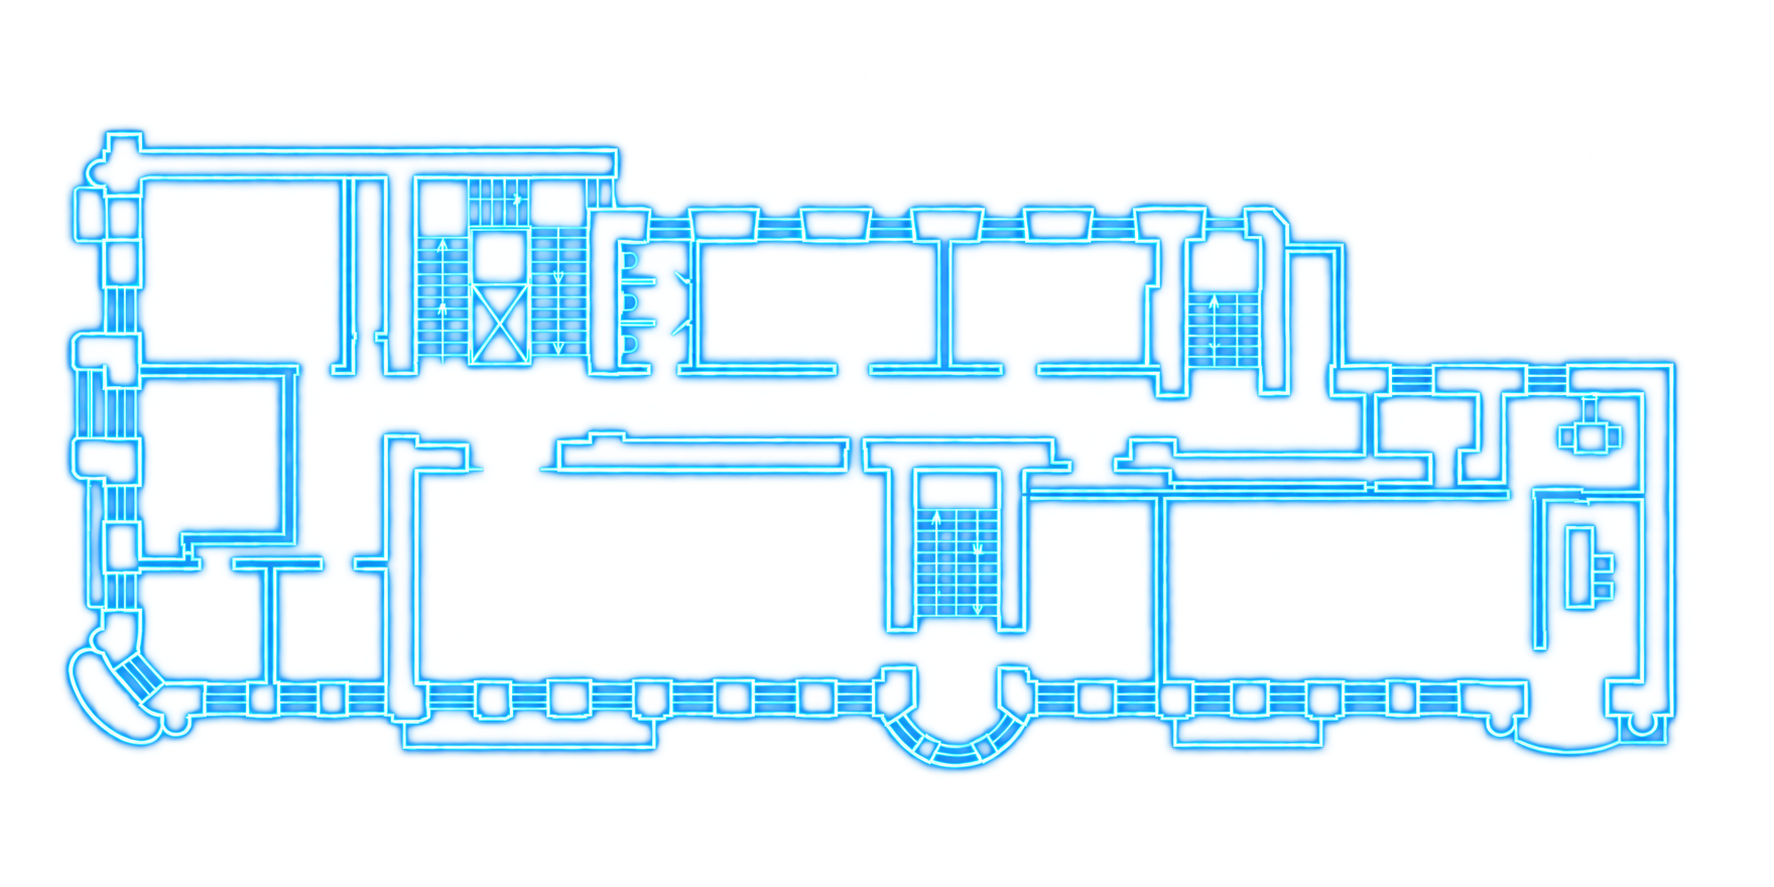
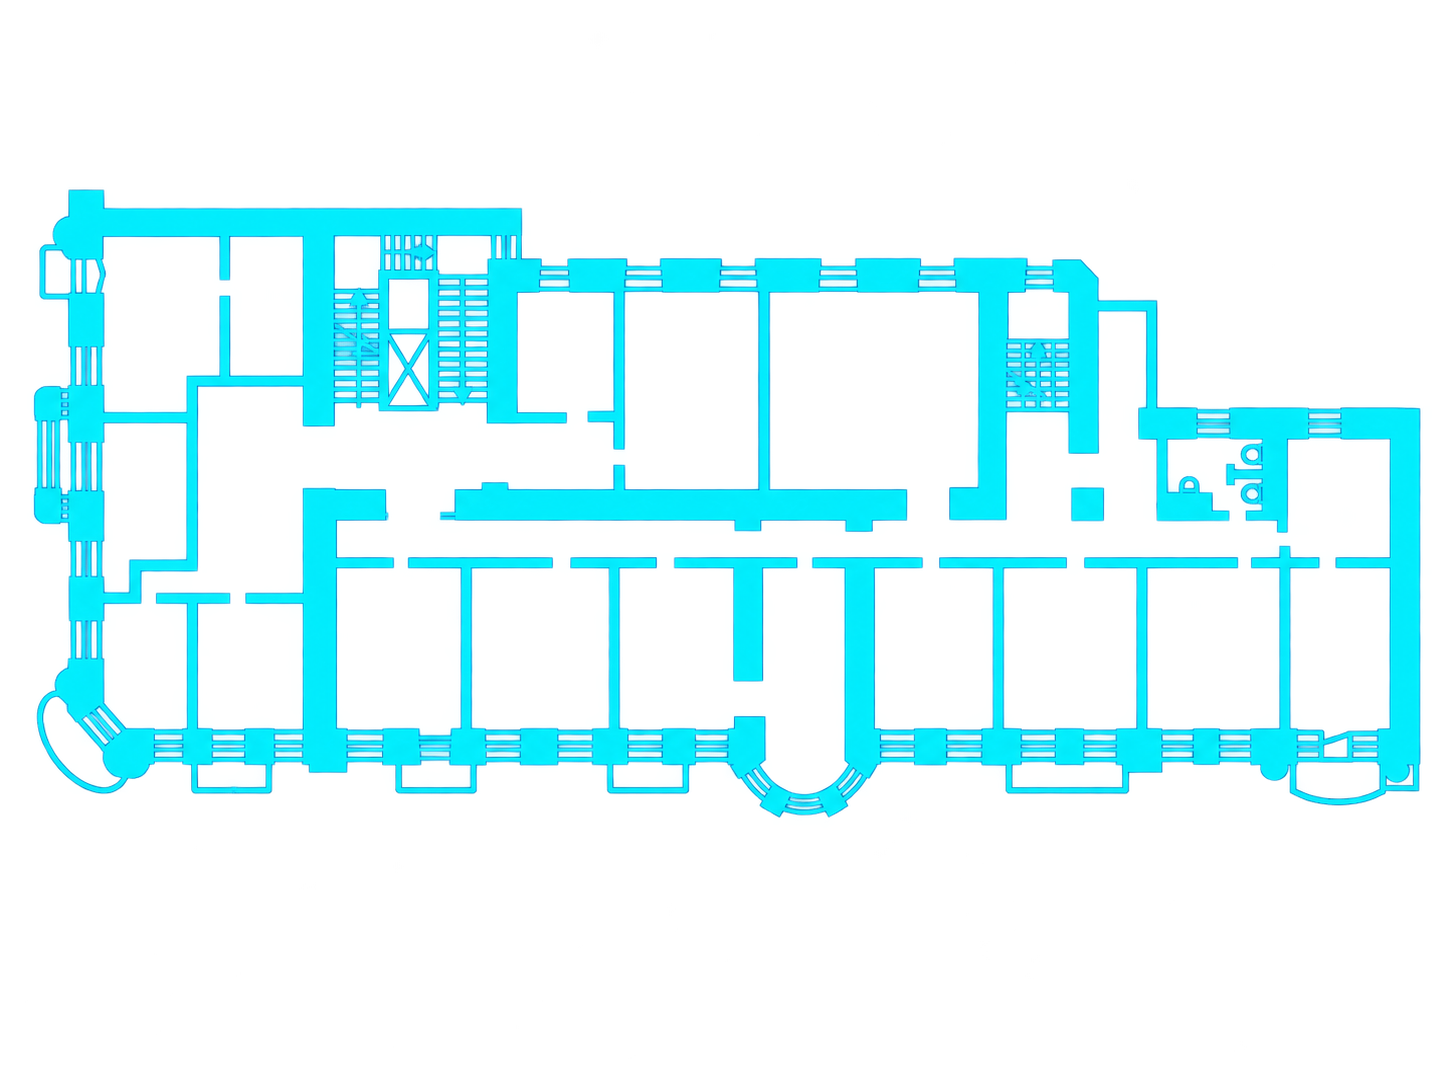
[UPDATE]

diff --git a/apps/web/src/features/plans/floorPlans.ts b/apps/web/src/features/plans/floorPlans.ts
@@ -9,16 +9,40 @@ export const floorOptions = ['Підвал', '1 поверх', '2 поверх',
 
 const plans: FloorPlanDefinition[] = [
   {
+    floor: '1 поверх',
+    imageUrl: '/floor-plans/court-floor-1-blueprint.png',
+    alt: 'План першого поверху суду',
+    aspectRatio: '1448 / 1086',
+  },
+  {
     floor: '2 поверх',
     imageUrl: '/floor-plans/court-floor-2-blueprint.png',
     alt: 'План другого поверху суду',
-    aspectRatio: '1774 / 887',
+    aspectRatio: '1448 / 1086',
   },
   {
     floor: '3 поверх',
     imageUrl: '/floor-plans/court-floor-3-blueprint.png',
     alt: 'План третього поверху суду',
-    aspectRatio: '1774 / 767',
+    aspectRatio: '1448 / 1086',
+  },
+  {
+    floor: '4 поверх',
+    imageUrl: '/floor-plans/court-floor-4-blueprint.png',
+    alt: 'План четвертого поверху суду',
+    aspectRatio: '1448 / 1086',
+  },
+  {
+    floor: '5 поверх',
+    imageUrl: '/floor-plans/court-floor-5-blueprint.png',
+    alt: 'План п’ятого поверху суду',
+    aspectRatio: '1448 / 1086',
+  },
+  {
+    floor: '6 поверх',
+    imageUrl: '/floor-plans/court-floor-6-blueprint.png',
+    alt: 'План шостого поверху суду',
+    aspectRatio: '1448 / 1086',
   },
 ];
 
